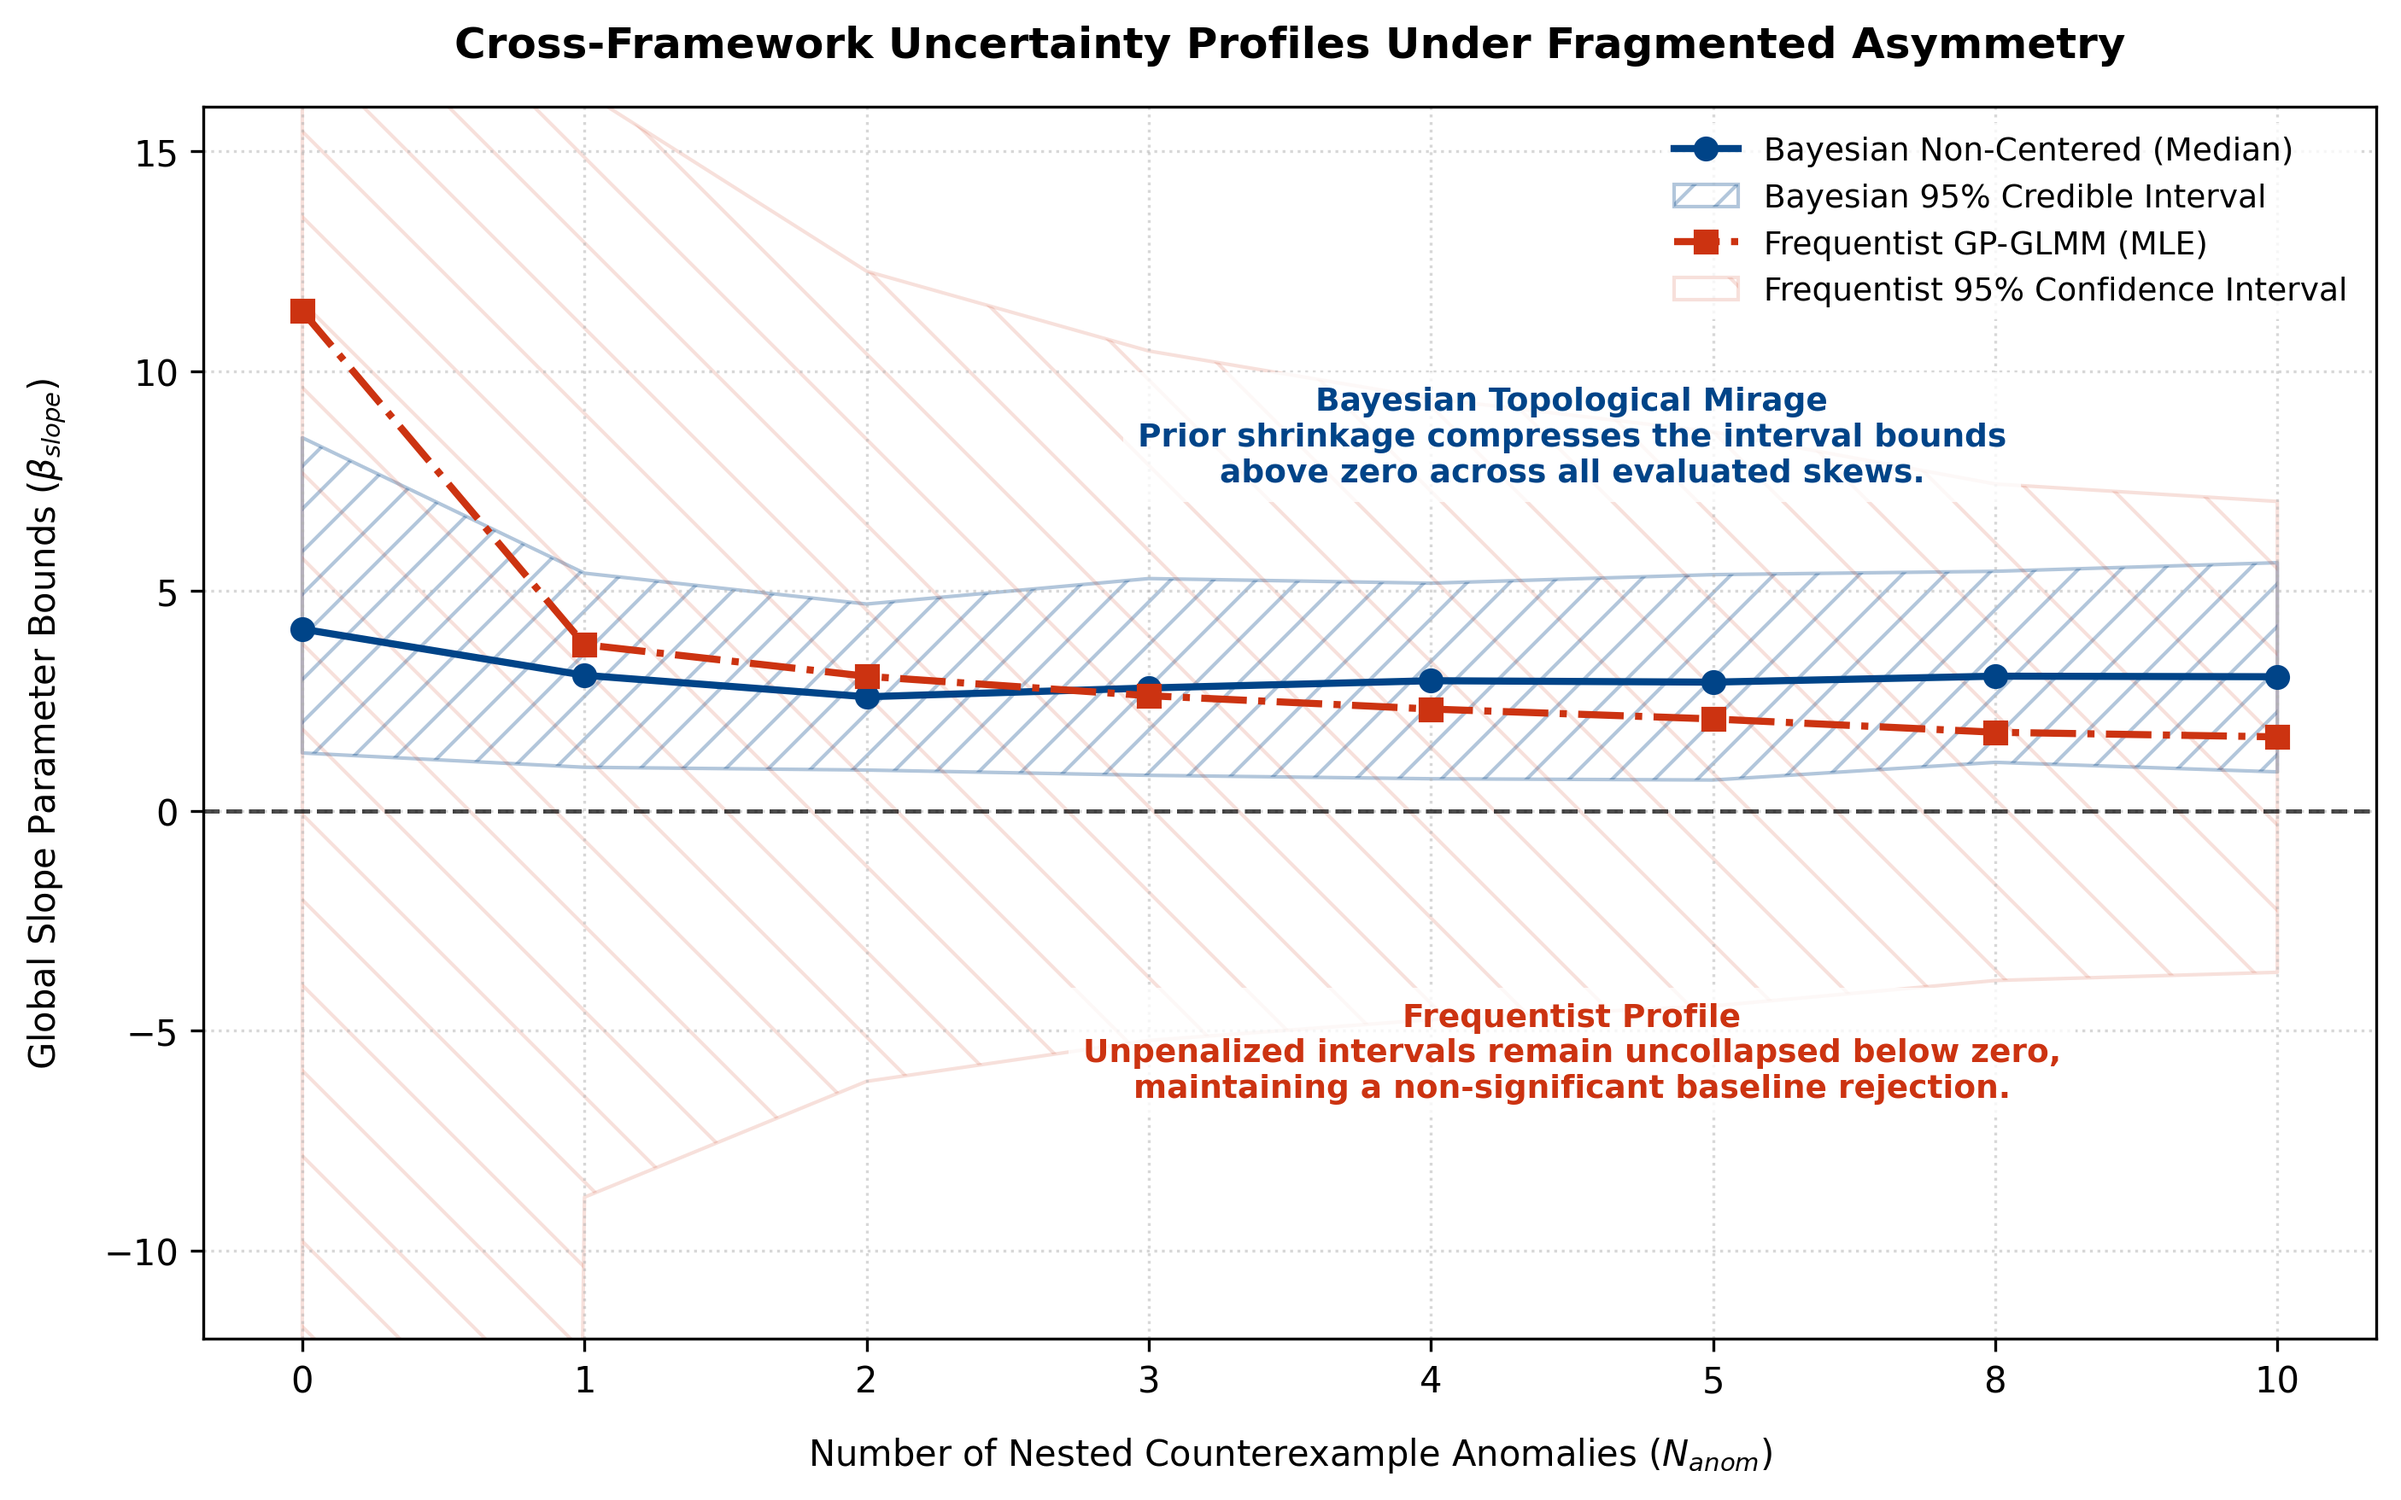
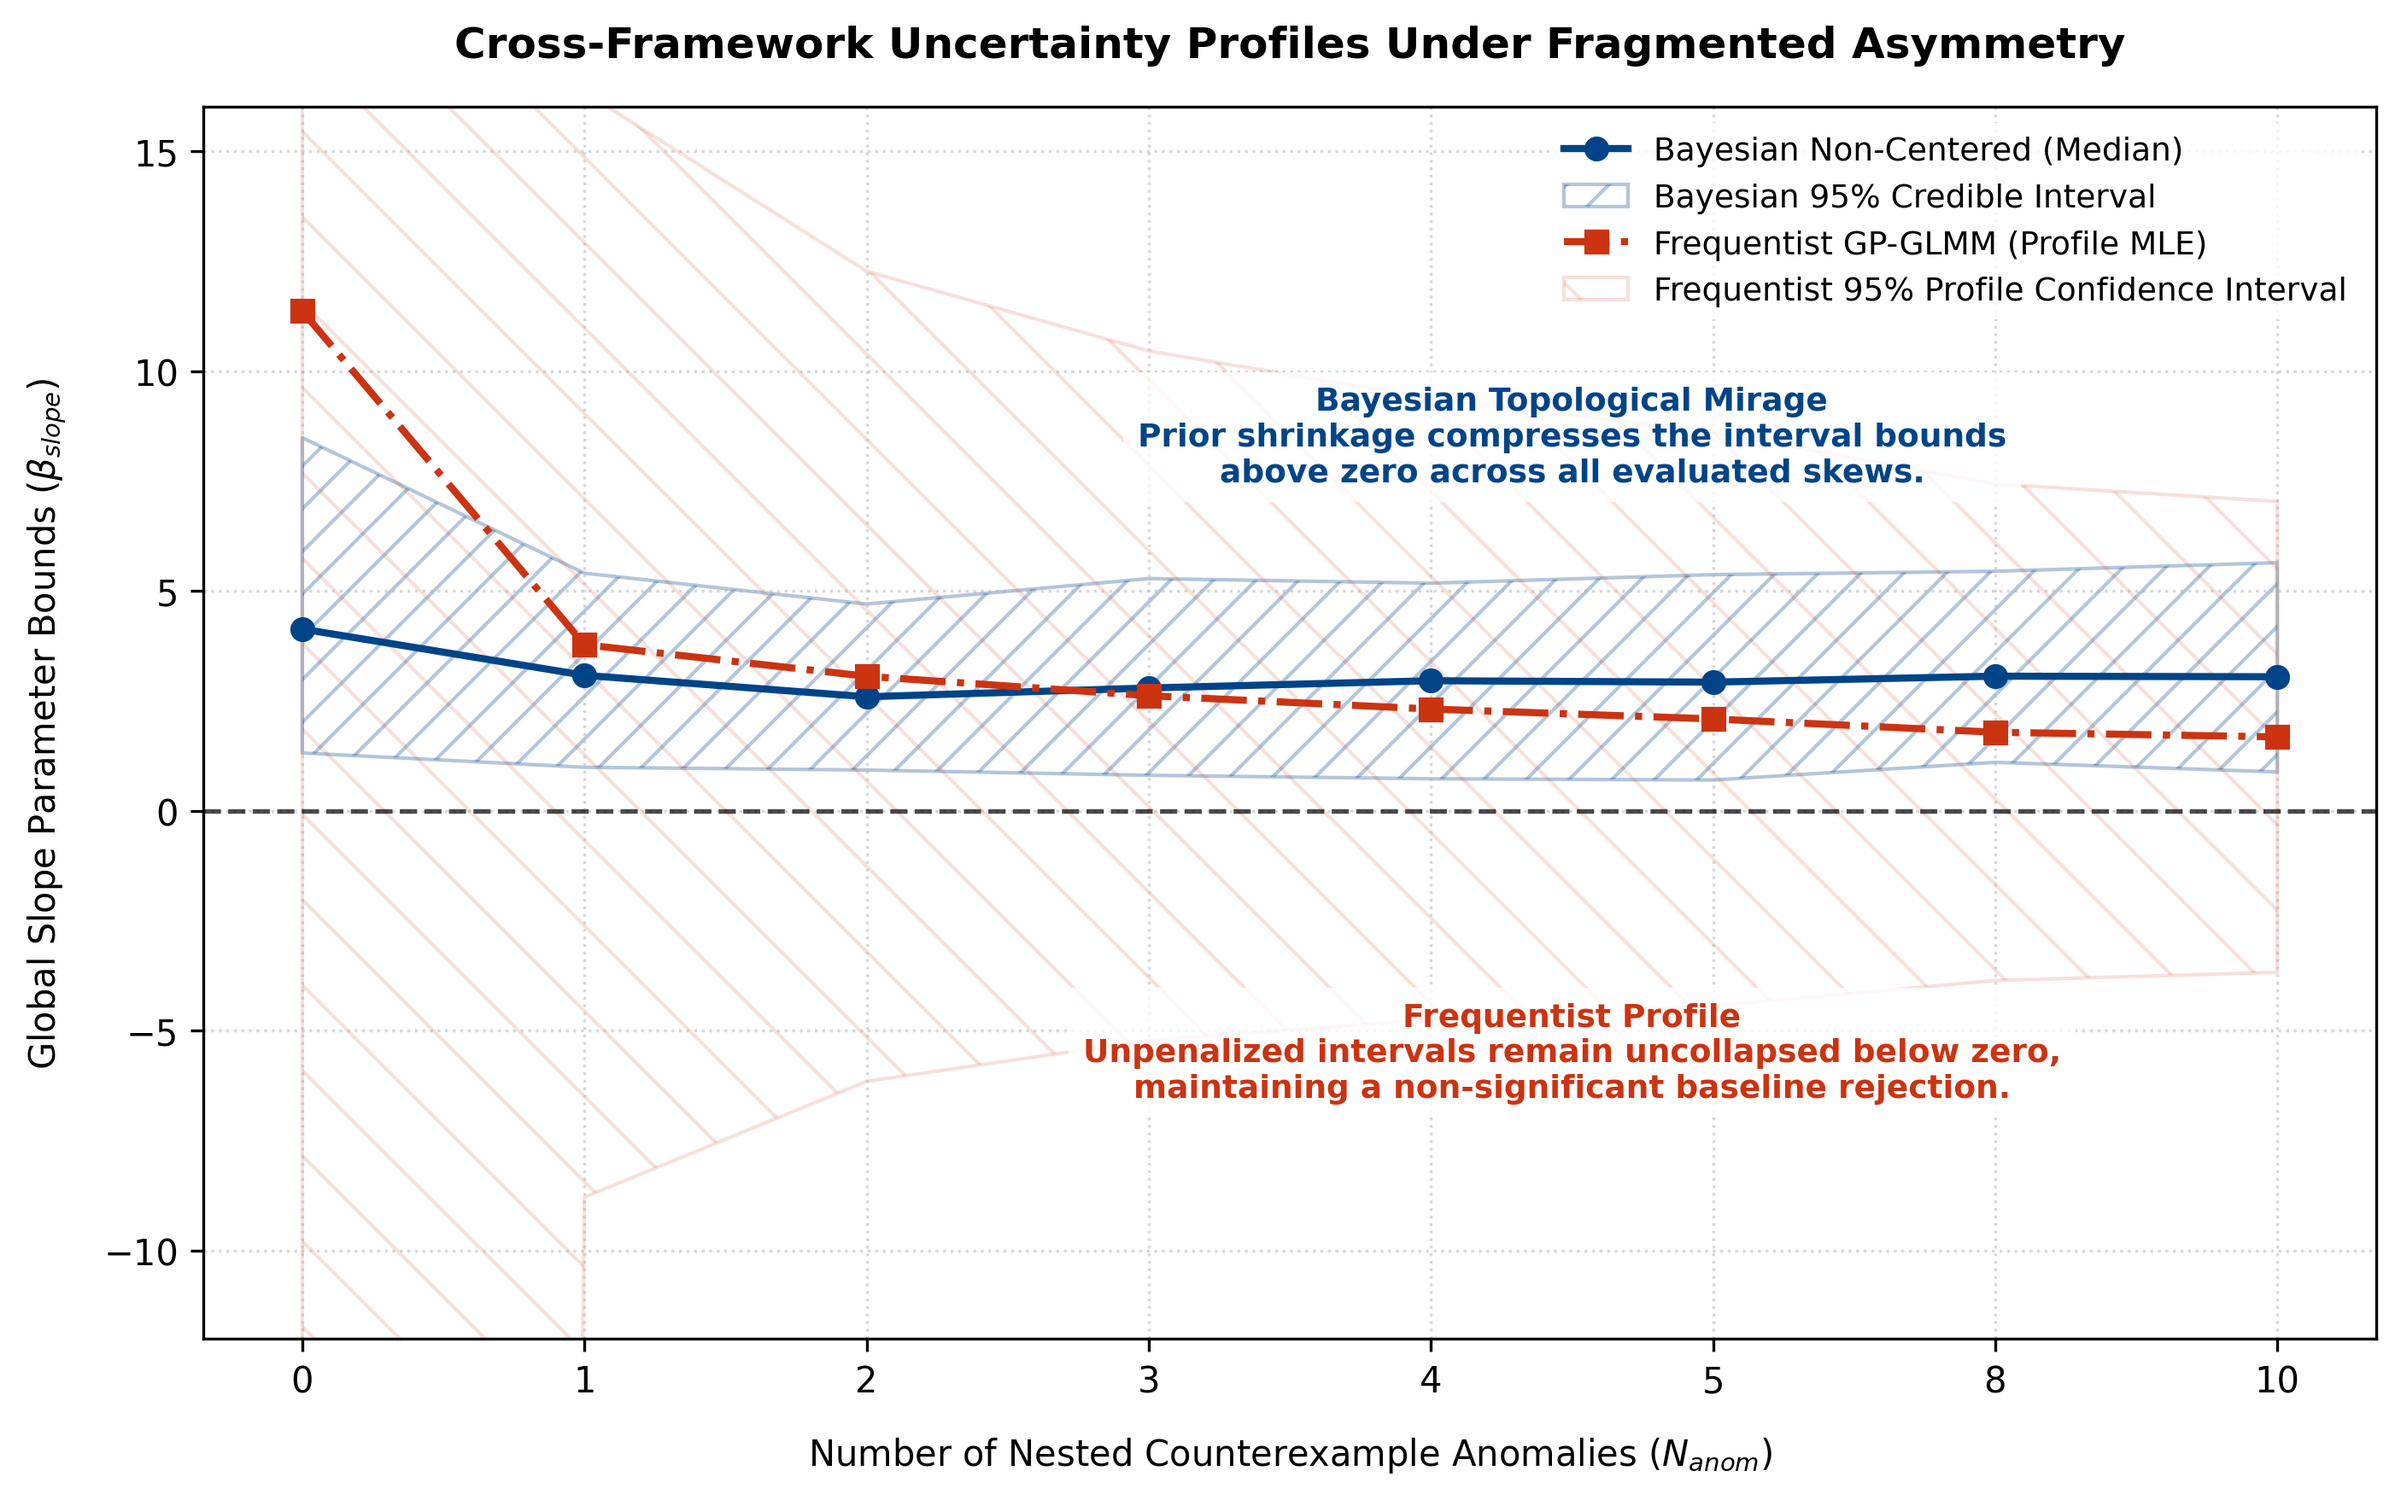
updated plotting script

Changed region(s): [[0.6499, 0.0922, 0.9594, 0.2151]]

diff --git a/amphibian_topology/utils/plot_skew.py b/amphibian_topology/utils/plot_skew.py
@@ -88,14 +88,14 @@ def render_uncertainty_comparison():
 
     # Plot Frequentist envelope with cross-hatch texture and alternate dash-dot style
     ax.plot(x_coords, f_est, color=color_frequentist, marker='s', linestyle='-.', linewidth=2,
-            label='Frequentist GP-GLMM (MLE)')
+            label='Frequentist GP-GLMM (Profile MLE)')
     ax.fill_between(x_coords, f_low, f_high, facecolor='none', edgecolor=color_frequentist,
-                    hatch='\\', alpha=0.15, label='Frequentist 95% Confidence Interval')
+                    hatch='\\', alpha=0.15, label='Frequentist 95% Profile Confidence Interval')
 
     # Dotted reference line at zero
-    ax.axhline(y=0, color='black', linestyle='--', linewidth=1.2, alpha=0.7)
+    ax.axhline(y=0, color='black', linestyle='--', linewidth=1.3, alpha=0.7)
 
-    # Label adjustments
+    # Labels
     ax.set_title('Cross-Framework Uncertainty Profiles Under Fragmented Asymmetry', fontweight='bold', pad=14, fontsize=12)
     ax.set_xlabel('Number of Nested Counterexample Anomalies ($N_{anom}$)', labelpad=10)
     ax.set_ylabel(r'Global Slope Parameter Bounds ($\beta_{slope}$)', labelpad=10)
